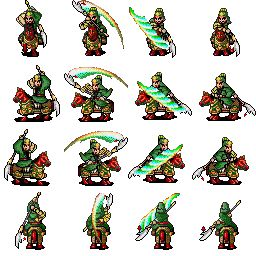
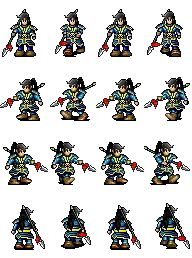
更改了人物形象——关羽

diff --git a/mainwindow.cpp b/mainwindow.cpp
@@ -18,7 +18,7 @@ MainWindow::MainWindow(QWidget *parent)
     Init_Soldiers();
     Init_Blocks();
     Init_Cities();
-    eventId1=startTimer(50);
+    eventId1=startTimer(100);
 
 
 }
@@ -180,10 +180,10 @@ void MainWindow::Init_Soldiers()
             {
                 if((i<=6 && j>=8 && j<=11))
                 {
-                    Soldiers.append(new Soldier(PIC_WIDTH*i,PIC_HEIGHT*j,100,100,5,10));
+                    Soldiers.append(new Soldier(PIC_WIDTH*i,PIC_HEIGHT*j,100,100,4,10));
                     isLoad[i][j]=2*isLoad[i][j];
                     Soldiers[Soldiers.size()-1]->Pic_State=0;
-                    Soldiers[Soldiers.size()-1]->Set_TySt(j,0);
+                    Soldiers[Soldiers.size()-1]->Set_TySt(2,0);
                 }
                 else if (i>15 && j%3==0 && i%3==0)
                 {

diff --git a/Unit.cpp b/Unit.cpp
@@ -80,17 +80,17 @@ void Unit::Dam_Blood(int _blood)
 void Unit::Convert_Tranparent()
 {
     Img=Img.convertToFormat(QImage::Format_ARGB32);
-    union myrgb
+    for (int i=0;i<Img.width();i++)
     {
-        uint rgba;
-        uchar rgba_bits[4];
-    };
-    myrgb * mybits=(myrgb*) Img.bits();
-    int len=Img.width()*Img.height();
-    while(len-->0)
-    {
-        mybits->rgba_bits[3]=(mybits->rgba==0xFFFFFFFF)?0:255;
-        mybits++;
+        for (int j=0;j<Img.height();j++)
+        {
+            QColor pixelColor=Img.pixelColor(i,j);
+            if(pixelColor.red()>240 && pixelColor.green()>240 && pixelColor.blue()>240)
+            {
+                pixelColor.setAlpha(0);
+                Img.setPixelColor(i,j,pixelColor);
+            }
+        }
     }
 }
 

diff --git a/Soldier.cpp b/Soldier.cpp
@@ -7,25 +7,11 @@ void Soldier::Set_TySt(int _type, int _stand)
     Stand=_stand % 2;
 
 
-    if (Type==3)
-    {
-        Set_Armor(40);
-        Set_Attack(0);
-    }
-    else if(Type==4)
-    {
-        Set_Attack(30);
-        Set_Armor(30);
-    }
-    else
-    {
-        Set_Attack(50);
-    }
-
 
     if(Stand==0)
     {
-        Img.load(":/images/Res/Blue.bmp");
+        Img.load(":/images/Res/guanyu_attack.jpg");
+        Img_Attack.load(":/images/Res/guanyu_attack.jpg");
     }
     else
     {

diff --git a/Soldier.h b/Soldier.h
@@ -15,6 +15,7 @@ public:
     int Get_Type() const;
     int Get_Stand() const;
     void Set_TySt(int,int);
+    bool Get_State() const;
     void to_Act();
     void to_Static();
 public:

diff --git a/Unit.h b/Unit.h
@@ -33,7 +33,7 @@ public:
     bool is_OnMove=false;
 public:
     QImage Img;
-
+    QImage Img_Attack;
 
 
 public slots:
